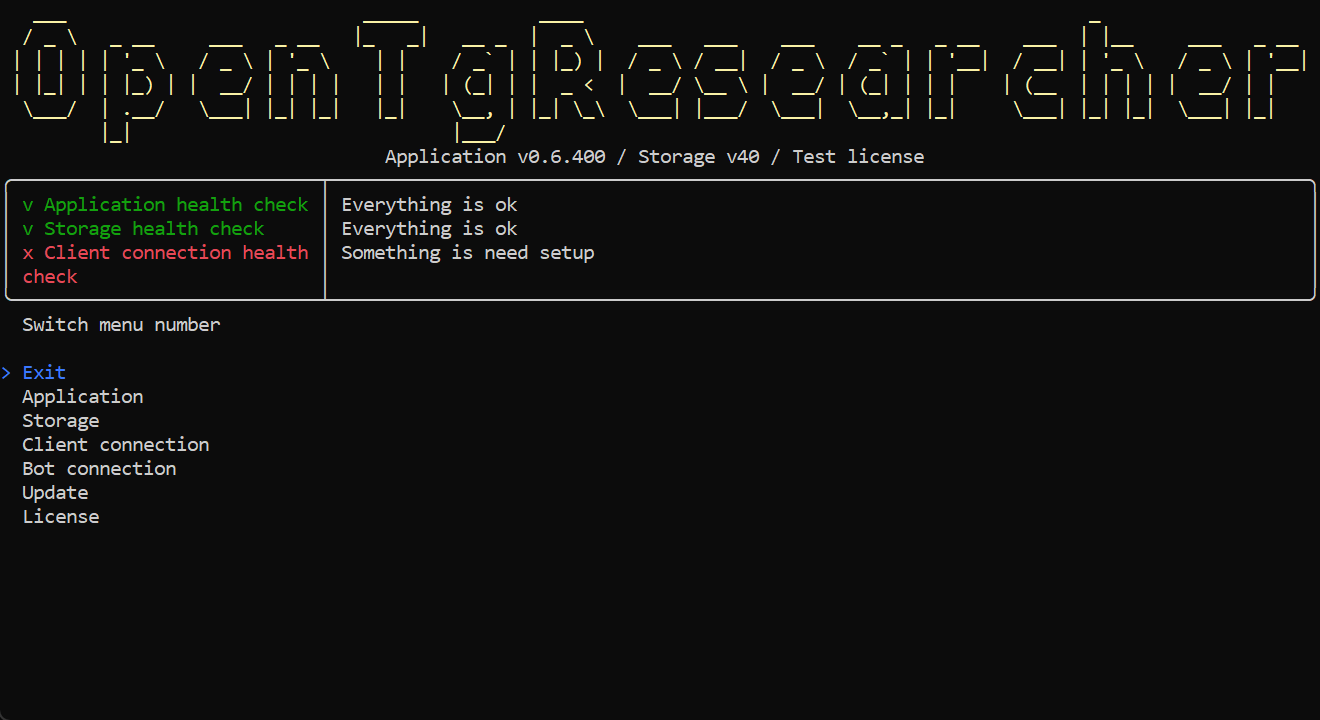
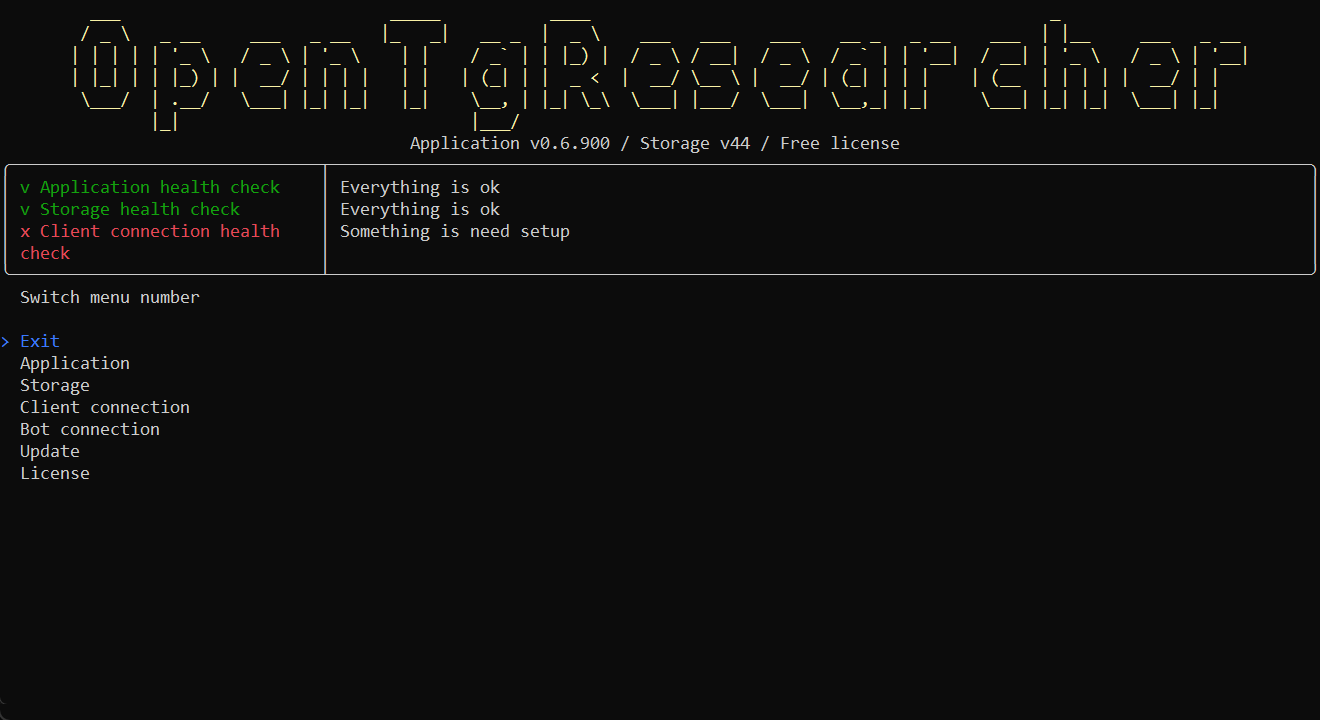
Version updated to v.0.6.900

Changed region(s): [[0.0, 0.0306, 0.9939, 0.7333], [0.9939, 0.2139, 1.0, 0.4278]]

diff --git a/Docs/SCREENSHOTS.md b/Docs/SCREENSHOTS.md
@@ -1,5 +1,35 @@
 # Screenshots
 
+## [0.6.900] - 2025-08-07
+### OpenTgResearcherDesktop
+<p align="center"><img src="Assets/v0.6.900/OpenTgResearcherDesktop_01_SplashScreen.png"></p>
+<p align="center"><img src="Assets/v0.6.900/OpenTgResearcherDesktop_02_Main.png"></p>
+<p align="center"><img src="Assets/v0.6.900/OpenTgResearcherDesktop_03_Storage.png"></p>
+<p align="center"><img src="Assets/v0.6.900/OpenTgResearcherDesktop_04_Connection.png"></p>
+<p align="center"><img src="Assets/v0.6.900/OpenTgResearcherDesktop_05_Filters.png"></p>
+<p align="center"><img src="Assets/v0.6.900/OpenTgResearcherDesktop_06_Proxies.png"></p>
+<p align="center"><img src="Assets/v0.6.900/OpenTgResearcherDesktop_07_Stories.png"></p>
+<p align="center"><img src="Assets/v0.6.900/OpenTgResearcherDesktop_08_Chats.png"></p>
+<p align="center"><img src="Assets/v0.6.900/OpenTgResearcherDesktop_09_ChatDetails.png"></p>
+<p align="center"><img src="Assets/v0.6.900/OpenTgResearcherDesktop_10_Contacts.png"></p>
+<p align="center"><img src="Assets/v0.6.900/OpenTgResearcherDesktop_11_ContactDetails.png"></p>
+<p align="center"><img src="Assets/v0.6.900/OpenTgResearcherDesktop_12_Users.png"></p>
+<p align="center"><img src="Assets/v0.6.900/OpenTgResearcherDesktop_13_Logs.png"></p>
+<p align="center"><img src="Assets/v0.6.900/OpenTgResearcherDesktop_14_Update.png"></p>
+<p align="center"><img src="Assets/v0.6.900/OpenTgResearcherDesktop_15_License.png"></p>
+<p align="center"><img src="Assets/v0.6.900/OpenTgResearcherDesktop_16_Settings.png"></p>
+
+## [0.6.900] - 2025-08-07
+### OpenTgResearcherConsole
+<p align="center"><img src="Assets/v0.6.900/OpenTgResearcherConsole_01_SplashScreen.png"></p>
+<p align="center"><img src="Assets/v0.6.900/OpenTgResearcherConsole_02_Main.png"></p>
+<p align="center"><img src="Assets/v0.6.900/OpenTgResearcherConsole_03_Application.png"></p>
+<p align="center"><img src="Assets/v0.6.900/OpenTgResearcherConsole_04_Storage.png"></p>
+<p align="center"><img src="Assets/v0.6.900/OpenTgResearcherConsole_05_ClientConnection.png"></p>
+<p align="center"><img src="Assets/v0.6.900/OpenTgResearcherConsole_06_BotConnection.png"></p>
+<p align="center"><img src="Assets/v0.6.900/OpenTgResearcherConsole_07_Update.png"></p>
+<p align="center"><img src="Assets/v0.6.900/OpenTgResearcherConsole_08_License.png"></p>
+
 ## [0.6.400] - 2025-06-19
 ### OpenTgResearcherConsole
 <p align="center"><img src="Assets/v0.6.400/OpenTgResearcherConsole_01_SplashScreen.png"></p>

diff --git a/Docs/CHANGELOG-RUS.md b/Docs/CHANGELOG-RUS.md
@@ -4,7 +4,7 @@
 Формат основан на [Keep a Changelog](https://keepachangelog.com/en/1.0.0/),
 и этот проект придерживается [Semantic Versioning](https://semver.org/spec/v2.0.0.html).
 
-## [0.6.880] - 2025-08-06
+## [0.6.900] - 2025-08-07
 ### Изменено
 - Открыт доступ к боту в `OpenTgResearcherConsole` для бесплатной лицензии
 - Обновлены NuGet пакеты
@@ -12,7 +12,9 @@
 - Обновлена таблица `Чаты` в `TgStorage`
 ### Добавлено
 - Добавлено поле `Подписка` при сканировании чатов
-- Добавлено поле `Подписка` в отображение `Чаты`
+- Добавлено поле `Подписка` на страницу `Чаты`
+- Добавлена фильтрация чатов по полю `Подписка` в `OpenTgResearcherDesktop`
+- Оптимизация запросов к базе данных на странице `Чаты` в `OpenTgResearcherDesktop`
 
 ## [0.6.860] - 2025-08-03
 ### Исправлено

diff --git a/Docs/CHANGELOG.md b/Docs/CHANGELOG.md
@@ -4,7 +4,7 @@ All notable changes to this project will be documented in this file.
 The format is based on [Keep a Changelog](https://keepachangelog.com/en/1.1.0/),
 and this project adheres to [Semantic Versioning](https://semver.org/spec/v2.0.0.html).
 
-## [0.6.880] - 2025-08-06
+## [0.6.900] - 2025-08-07
 ### Changed
 - Opened access to bot in `OpenTgResearcherConsole` for free license
 - Updated NuGet packages
@@ -12,7 +12,9 @@ and this project adheres to [Semantic Versioning](https://semver.org/spec/v2.0.0
 - Updated `Chats` table in `TgStorage`
 ### Added
 - Added `Subscription` field when scanning chats
-- Added `Subscription` field to `Chats` display
+- Added `Subscription` field to `Chats` page
+- Added filter by `Subscription` in `Chats` page in `OpenTgResearcherDesktop`
+- Query optimization for `Chats` page in `OpenTgResearcherDesktop`
 
 ## [0.6.860] - 2025-08-03
 ### Fixed

diff --git a/Docs/RELEASES.md b/Docs/RELEASES.md
@@ -1,6 +1,7 @@
 # Download statistics
 
 - GitHub all releases   ![GitHub all releases](https://img.shields.io/github/downloads/DamianMorozov/OpenTgResearcher/total?style=social)
+- GitHub v0.6.900		![GitHub v0.6.900](https://img.shields.io/github/downloads/DamianMorozov/OpenTgResearcher/v0.6.900/total?style=social)
 - GitHub v0.6.860		![GitHub v0.6.860](https://img.shields.io/github/downloads/DamianMorozov/OpenTgResearcher/v0.6.860/total?style=social)
 - GitHub v0.6.830		![GitHub v0.6.830](https://img.shields.io/github/downloads/DamianMorozov/OpenTgResearcher/v0.6.830/total?style=social)
 - GitHub v0.6.800		![GitHub v0.6.800](https://img.shields.io/github/downloads/DamianMorozov/OpenTgResearcher/v0.6.800/total?style=social)
